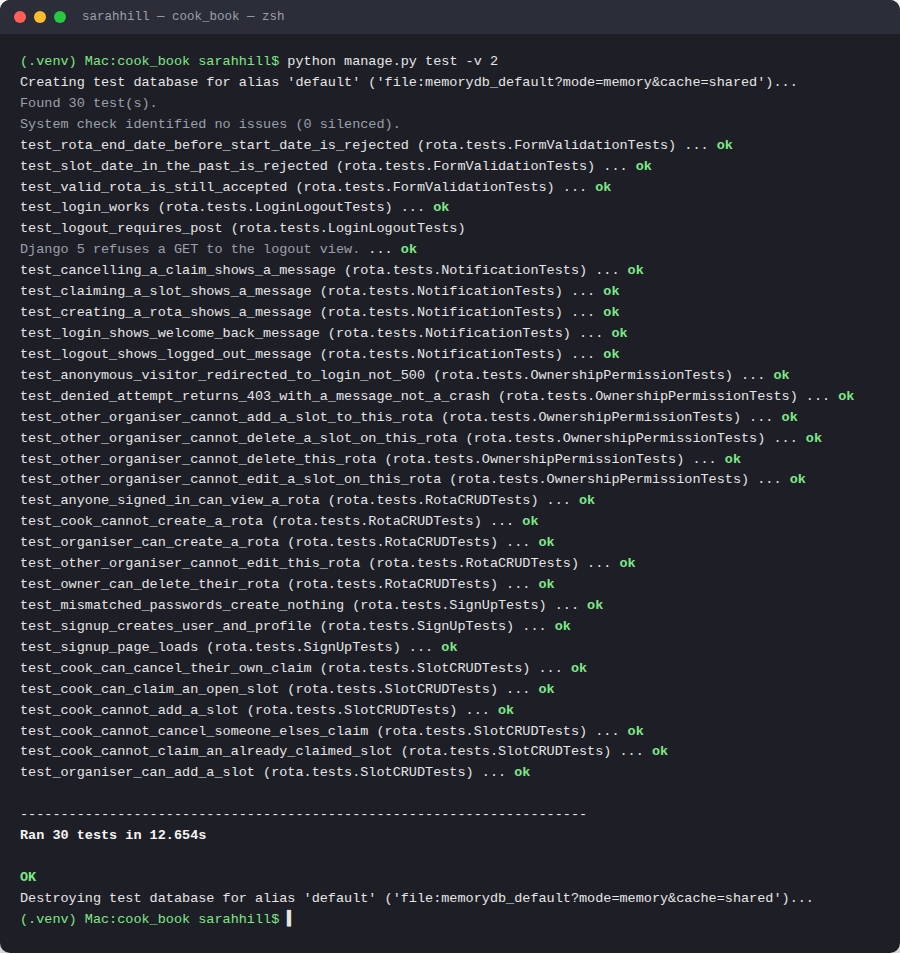
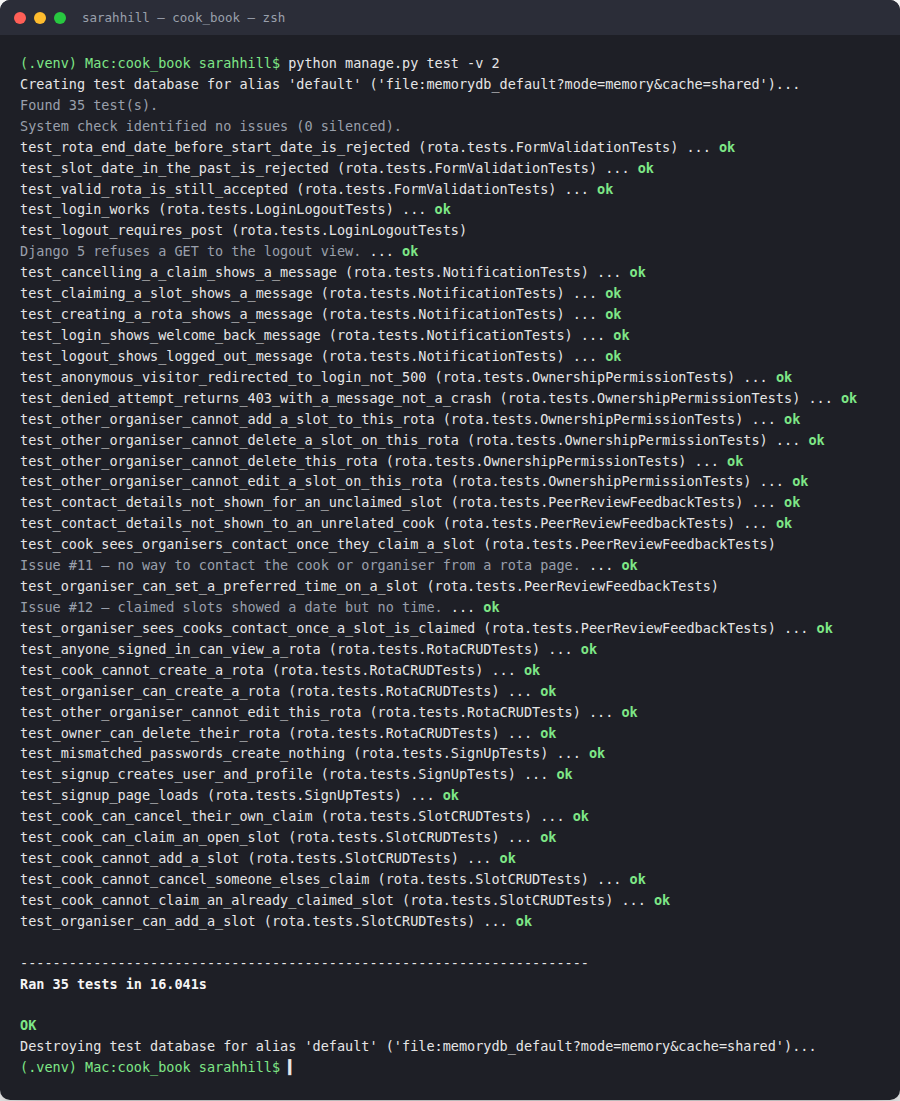
Fix links to the project board

diff --git a/templates/rota/rota_detail.html b/templates/rota/rota_detail.html
@@ -22,7 +22,9 @@
     <ul class="calendar-grid">
         {% for slot in rota.slots.all %}
             <li class="calendar-day {% if slot.cook %}calendar-day--claimed{% else %}calendar-day--open{% endif %}">
-                <span class="calendar-day__date">{{ slot.date }}</span>
+                <span class="calendar-day__date">
+                    {{ slot.date }}{% if slot.preferred_time %} &middot; {{ slot.preferred_time }}{% endif %}
+                </span>
 
                 {% if slot.cook %}
                     <span class="calendar-day__status calendar-day__status--claimed">{{ slot.cook.username }}</span>
@@ -32,6 +34,18 @@
 
                 {% if slot.notes %}
                     <p class="calendar-day__notes"><strong>Notes:</strong> {{ slot.notes }}</p>
+                {% endif %}
+
+                {% if slot.cook and user == rota.organiser %}
+                    <p class="calendar-day__contact">
+                        <strong>Contact {{ slot.cook.username }}:</strong>
+                        {{ slot.cook.email }}{% if slot.cook.profile.phone %} &middot; {{ slot.cook.profile.phone }}{% endif %}
+                    </p>
+                {% elif slot.cook == user %}
+                    <p class="calendar-day__contact">
+                        <strong>Contact {{ rota.organiser.username }}:</strong>
+                        {{ rota.organiser.email }}{% if rota.organiser.profile.phone %} &middot; {{ rota.organiser.profile.phone }}{% endif %}
+                    </p>
                 {% endif %}
 
                 {% if user == rota.organiser %}

diff --git a/static/css/styles.css b/static/css/styles.css
@@ -256,6 +256,16 @@ body {
     line-height: 1.4;
 }
 
+.calendar-day__contact {
+    font-size: 0.85rem;
+    color: var(--text);
+    background: #f8f5f1;
+    border-radius: 6px;
+    padding: 0.4rem 0.6rem;
+    margin: 0.4rem 0 0;
+    line-height: 1.4;
+}
+
 .calendar-day .btn-small {
     display: inline-block;
     margin-top: 0.5rem;

diff --git a/rota/tests.py b/rota/tests.py
@@ -353,3 +353,85 @@ class FormValidationTests(TestCase):
         }, follow=True)
         self.assertContains(response, "created.")
         self.assertTrue(Rota.objects.filter(recipient_name="Valid Rota").exists())
+
+class PeerReviewFeedbackTests(TestCase):
+    """Covers the two issues logged from the SME code review (#11, #12)."""
+
+    def setUp(self):
+        self.organiser = User.objects.create_user(
+            username="organiser5",
+            password="Sturdy-Passphrase-42",
+            email="organiser5@example.com",
+        )
+        Profile.objects.create(user=self.organiser, role="organiser", phone="01234 567890")
+
+        self.cook = User.objects.create_user(
+            username="cook5",
+            password="Sturdy-Passphrase-42",
+            email="cook5@example.com",
+        )
+        Profile.objects.create(user=self.cook, role="cook", phone="07000 111222")
+
+        self.other_cook = User.objects.create_user(username="cook6", password="Sturdy-Passphrase-42")
+        Profile.objects.create(user=self.other_cook, role="cook")
+
+        self.rota = Rota.objects.create(
+            organiser=self.organiser,
+            recipient_name="Jo",
+            start_date=date(2026, 1, 1),
+            end_date=date(2026, 1, 14),
+        )
+        self.slot = Slot.objects.create(rota=self.rota, date=date(2026, 1, 3))
+
+    def test_organiser_can_set_a_preferred_time_on_a_slot(self):
+        """Issue #12 — claimed slots showed a date but no time."""
+        self.client.login(username="organiser5", password="Sturdy-Passphrase-42")
+        new_slot_date = date.today() + timedelta(days=5)
+        self.client.post(reverse("rota:slot_create", args=[self.rota.pk]), {
+            "date": new_slot_date.isoformat(),
+            "preferred_time": "around 6pm",
+            "notes": "",
+        })
+
+        new_slot = self.rota.slots.get(date=new_slot_date)
+        self.assertEqual(new_slot.preferred_time, "around 6pm")
+
+        response = self.client.get(reverse("rota:rota_detail", args=[self.rota.pk]))
+        self.assertContains(response, "around 6pm")
+
+    def test_cook_sees_organisers_contact_once_they_claim_a_slot(self):
+        """Issue #11 — no way to contact the cook or organiser from a rota page."""
+        self.slot.cook = self.cook
+        self.slot.save()
+
+        self.client.login(username="cook5", password="Sturdy-Passphrase-42")
+        response = self.client.get(reverse("rota:rota_detail", args=[self.rota.pk]))
+
+        self.assertContains(response, "organiser5@example.com")
+        self.assertContains(response, "01234 567890")
+
+    def test_organiser_sees_cooks_contact_once_a_slot_is_claimed(self):
+        self.slot.cook = self.cook
+        self.slot.save()
+
+        self.client.login(username="organiser5", password="Sturdy-Passphrase-42")
+        response = self.client.get(reverse("rota:rota_detail", args=[self.rota.pk]))
+
+        self.assertContains(response, "cook5@example.com")
+        self.assertContains(response, "07000 111222")
+
+    def test_contact_details_not_shown_for_an_unclaimed_slot(self):
+        self.client.login(username="organiser5", password="Sturdy-Passphrase-42")
+        response = self.client.get(reverse("rota:rota_detail", args=[self.rota.pk]))
+        self.assertNotContains(response, "07000 111222")
+
+    def test_contact_details_not_shown_to_an_unrelated_cook(self):
+        self.slot.cook = self.cook
+        self.slot.save()
+
+        self.client.login(username="cook6", password="Sturdy-Passphrase-42")
+        response = self.client.get(reverse("rota:rota_detail", args=[self.rota.pk]))
+
+        self.assertNotContains(response, "organiser5@example.com")
+        self.assertNotContains(response, "cook5@example.com")
+

diff --git a/rota/forms.py b/rota/forms.py
@@ -19,13 +19,19 @@ class SignUpForm(UserCreationForm):
         widget=forms.RadioSelect,
         label="I am signing up as",
     )
+    phone = forms.CharField(
+        required=False,
+        max_length=30,
+        label="Phone (optional)",
+        help_text="Only shown to the other side of a claim once a date is claimed — never shown publicly.",
+    )
 
     class Meta:
         model = User
         fields = ["username", "email", "password1", "password2"]
 
     # Show the fields in a sensible order rather than Django's default.
-    field_order = ["username", "email", "role", "password1", "password2"]
+    field_order = ["username", "email", "role", "phone", "password1", "password2"]
 
 
 class RotaForm(forms.ModelForm):
@@ -79,9 +85,10 @@ class SlotForm(forms.ModelForm):
 
     class Meta:
         model = Slot
-        fields = ["date", "notes"]
+        fields = ["date", "preferred_time", "notes"]
         widgets = {
             "date": forms.DateInput(attrs={"type": "date"}),
+            "preferred_time": forms.TextInput(attrs={"placeholder": "e.g. around 6pm"}),
             "notes": forms.Textarea(attrs={"rows": 2}),
         }
 

diff --git a/rota/models.py b/rota/models.py
@@ -16,6 +16,11 @@ class Profile(models.Model):
         related_name="profile",
     )
     role = models.CharField(max_length=10, choices=ROLE_CHOICES)
+    phone = models.CharField(
+        max_length=30,
+        blank=True,
+        help_text="Optional — shown to the other side of a claim once a date is claimed.",
+    )
     created_at = models.DateTimeField(auto_now_add=True)
 
     def __str__(self):
@@ -59,6 +64,11 @@ class Slot(models.Model):
         related_name="claimed_slots",
     )
     notes = models.TextField(blank=True)
+    preferred_time = models.CharField(
+        max_length=50,
+        blank=True,
+        help_text='Optional — e.g. "around 6pm" or "after school pickup".',
+    )
     claimed_at = models.DateTimeField(null=True, blank=True)
     created_at = models.DateTimeField(auto_now_add=True)
 

diff --git a/rota/migrations/0002_profile_phone_slot_preferred_time.py b/rota/migrations/0002_profile_phone_slot_preferred_time.py
@@ -1,0 +1,23 @@
+# Generated by Django 5.2.17 on 2026-09-24 19:55
+
+from django.db import migrations, models
+
+
+class Migration(migrations.Migration):
+
+    dependencies = [
+        ('rota', '0001_initial'),
+    ]
+
+    operations = [
+        migrations.AddField(
+            model_name='profile',
+            name='phone',
+            field=models.CharField(blank=True, help_text='Optional — shown to the other side of a claim once a date is claimed.', max_length=30),
+        ),
+        migrations.AddField(
+            model_name='slot',
+            name='preferred_time',
+            field=models.CharField(blank=True, help_text='Optional — e.g. "around 6pm" or "after school pickup".', max_length=50),
+        ),
+    ]

diff --git a/rota/views.py b/rota/views.py
@@ -20,7 +20,11 @@ def signup(request):
         form = SignUpForm(request.POST)
         if form.is_valid():
             user = form.save()
-            Profile.objects.create(user=user, role=form.cleaned_data["role"])
+            Profile.objects.create(
+                user=user,
+                role=form.cleaned_data["role"],
+                phone=form.cleaned_data.get("phone", ""),
+            )
             login(request, user)
             messages.success(
                 request,

diff --git a/README.md b/README.md
@@ -132,6 +132,8 @@ A Django rebuild of the rota concept from the `cardiff-community-meals` project,
 | Claim a slot (Cook) | A signed-in Cook can claim any open date on a rota via a simple form — no admin panel needed. |
 | Cancel a claimed slot | The cook who claimed a date (or the rota's organiser) can un-claim it, freeing it up again. |
 | Slot notes visible on the rota page | Any notes left on a slot (e.g. delivery instructions) show directly on the rota's date grid. |
+| Preferred time on a slot | An optional free-text time (e.g. "around 6pm") shown next to the date, so a claimed slot isn't just a bare date. |
+| Contact details once claimed | The organiser and the cook who claimed a date can see each other's email (and phone, if given) on the rota page — hidden from everyone else and on unclaimed dates. |
 | Calendar-style date grid | The rota detail page shows every date as a card in a responsive grid, rather than a plain list, with its status and available action. |
 | Ownership/permission checks | Every mutating view (create/edit/delete/claim/cancel) checks the signed-in user's ownership or role before allowing the action; anonymous and wrong-user access is redirected or denied. |
 | On-page notifications | Django `messages` banners confirm every create/update/delete/claim/cancel action, plus welcome/logout messages. |
@@ -167,6 +169,7 @@ erDiagram
     PROFILE {
         int id
         string role
+        string phone
         datetime created_at
     }
     ROTA {
@@ -183,6 +186,7 @@ erDiagram
     SLOT {
         int id
         date date
+        string preferred_time
         text notes
         datetime claimed_at
         datetime created_at
@@ -248,7 +252,7 @@ python manage.py runserver
 
 ### Automated tests
 
-30 tests across 7 test classes, covering signup/login/logout (including on-page welcome/logout messages), Rota CRUD, Slot CRUD, ownership/permission checks on every mutating view (anonymous and wrong-user access correctly redirected or denied with a custom 403 page), on-page notifications for every create/update/delete/claim action, and form validation (rejecting an end date before the start date, a new rota starting in the past, and a slot date already in the past). Run them with:
+35 tests across 8 test classes, covering signup/login/logout (including on-page welcome/logout messages), Rota CRUD, Slot CRUD, ownership/permission checks on every mutating view (anonymous and wrong-user access correctly redirected or denied with a custom 403 page), on-page notifications for every create/update/delete/claim action, form validation (rejecting an end date before the start date, a new rota starting in the past, and a slot date already in the past), and the peer-review fixes (contact details shown only to the right people, a preferred time saving and displaying). Run them with:
 
 ```bash
 python manage.py test
@@ -256,8 +260,8 @@ python manage.py test
 
 | Result |
 |---|
-| ![All 30 automated tests passing](docs/screenshots/automated-tests-passing.png) |
-| A real terminal run, all 30 passing. |
+| ![All 35 automated tests passing](docs/screenshots/automated-tests-passing.png) |
+| A real terminal run, all 35 passing. |
 
 ### Manual testing
 
@@ -272,8 +276,23 @@ A live walkthrough of the app with a Subject Matter Expert, run against the <a h
 | <a href="docs/sme-review-findings.md" target="_blank" rel="noopener"><img src="docs/screenshots/sme-review-findings.png" alt="SME code review findings — click to read the full write-up"></a> |
 | Click the image for the full write-up. |
 
-- <a href="https://github.com/sarahjhill/cooking-rota/issues/11" target="_blank" rel="noopener">Issue #11 — No way to contact the cook or organiser from a rota page</a> (Medium)
-- <a href="https://github.com/sarahjhill/cooking-rota/issues/12" target="_blank" rel="noopener">Issue #12 — Claimed slots show a date but no time</a> (Low)
+- <a href="https://github.com/sarahjhill/cooking-rota/issues/15" target="_blank" rel="noopener">Issue #15 — No way to contact the cook or organiser from a rota page</a> (Medium) &mdash; fixed, see below
+- <a href="https://github.com/sarahjhill/cooking-rota/issues/16" target="_blank" rel="noopener">Issue #16 — Claimed slots show a date but no time</a> (Low) &mdash; fixed, see below
+
+### Acting on the SME feedback
+
+Both issues from the SME review are now fixed.
+
+**Issue #11 &mdash; contact details.** Sign-up now has an optional phone number field, alongside the email address Django already collects. Once a date is claimed, the organiser and the cook who claimed it can see each other's email (and phone, if given) on the rota page &mdash; nobody else can, and it stays hidden on every unclaimed date.
+
+**Issue #12 &mdash; a preferred time.** Adding or editing a date now has an optional free-text "preferred time" field (e.g. "around 6pm"), shown next to the date on the rota page. Free text rather than a fixed time picker, since nobody has an exact drop-off time this early.
+
+| Cook's view once they've claimed a date | Organiser's view of the same date |
+|---|---|
+| ![Rota detail page as the cook who claimed the date, showing the date with a preferred time and the organiser's contact details](docs/screenshots/peer-review-cook-view.jpg) | ![Rota detail page as the organiser, showing the same date with the cook's contact details](docs/screenshots/peer-review-organiser-view.jpg) |
+| "Oct. 3, 2026 &middot; around 6pm", plus a contact box for the organiser. | The same date, with a contact box for the cook who claimed it. |
+
+Covered by 5 new automated tests in `PeerReviewFeedbackTests` (`rota/tests.py`) &mdash; contact details show to the organiser and the claiming cook, stay hidden on an unclaimed date and from an unrelated cook, and a preferred time saves and displays correctly.
 
 ### Validators
 

diff --git a/docs/erd.md b/docs/erd.md
@@ -11,6 +11,7 @@
 - id
 - user (OneToOneField → User)
 - role (choices: "organiser" / "cook")
+- phone (optional — shown to the other side of a claim once a date is claimed, never shown publicly)
 - created_at
 
 ### Rota (organiser owns; 1—N from User as organiser)
@@ -29,6 +30,7 @@
 - id
 - rota (ForeignKey → Rota)
 - date
+- preferred_time (optional free text, e.g. "around 6pm")
 - cook (ForeignKey → User, null=True, blank=True — unclaimed until a cook claims it)
 - notes
 - claimed_at
